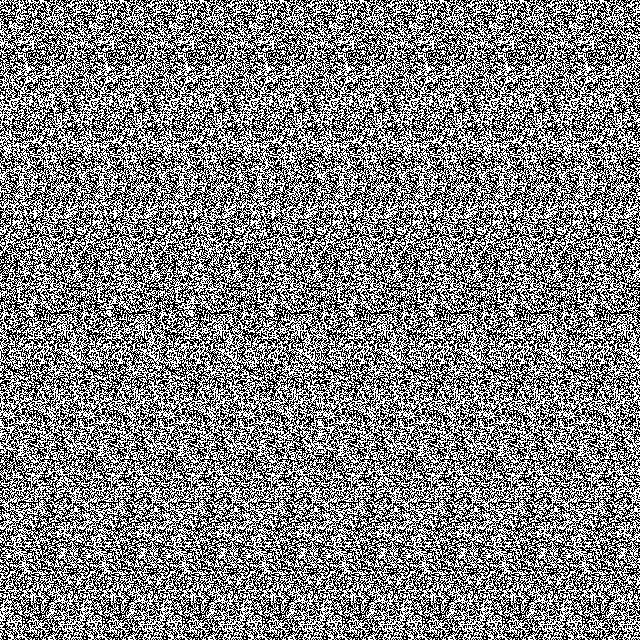
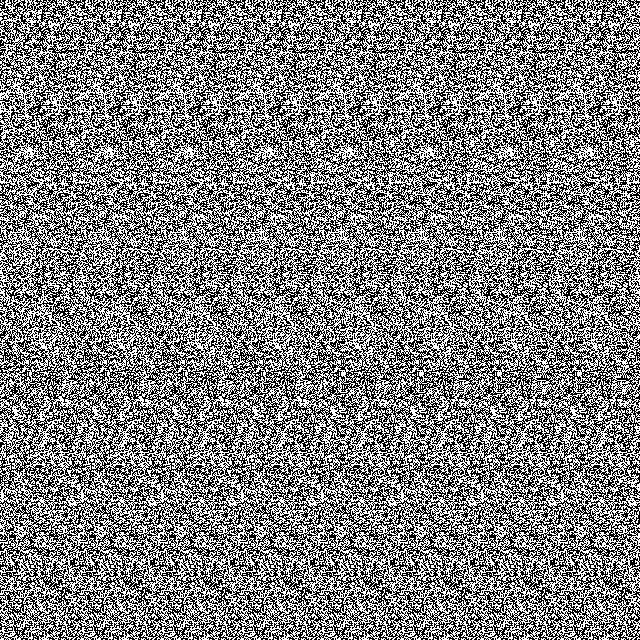
fix: it works, i needed to correct the loop of pixel shift after a first shift

diff --git a/src/main.rs b/src/main.rs
@@ -21,16 +21,40 @@ fn main() {
 	for stripe in 1..8 {
 		for x in 0..80 {
 			for y in 0..640 {
-				let mut pixel = finalimg.get_pixel(x, y);
-				if y > 80 && y < 560 && (x+(80*(stripe-1)) < 480) && (stripe == 1 || stripe == 2 || stripe == 3)
+				let pixel = finalimg.get_pixel(x, y);
+				// if y > 80 && y < 560 && (x+(80*(stripe-1)) < 480) && (stripe == 1 || stripe == 2 || stripe == 3)
+				// {
+				// 	let inputpixel = input.get_pixel(x+(80*(stripe-1)), y-80);
+				// 	if inputpixel == image::Rgba([0, 0, 0, 255]) {
+				// 		pixel = finalimg.get_pixel(x+2+(80*(stripe-1)), y);
+				// 		// pixel = &image::Rgb([255, 255, 255]);
+				// 	}
+				// }
+				finalimg.put_pixel(x+(80*stripe), y, *pixel);
+			}
+		}
+	}
+
+	image::save_buffer("image_pre-shift.png", &finalimg, 640, 640, image::ExtendedColorType::Rgb8).unwrap();
+	for stripe in 1..8 {
+		for x in 0..80 {
+			for y in 0..640 {
+				// let mut pixel = finalimg.get_pixel(x, y);
+				if y > 80 && y < 560 && (x+(80*(stripe-1)) < 480) 
 				{
 					let inputpixel = input.get_pixel(x+(80*(stripe-1)), y-80);
 					if inputpixel == image::Rgba([0, 0, 0, 255]) {
-						pixel = finalimg.get_pixel(x+2+(80*(stripe-1)), y);
+						let &pixel = finalimg.get_pixel(x+2+(80*(stripe-1)), y);
+						let &pixel2 = finalimg.get_pixel(x+(80*(stripe-1)), y);
+						for i in stripe..8 {
+							finalimg.put_pixel(x+(80*i), y, pixel);
+						}
+						// finalimg.put_pixel(x+(80*(stripe+1)), y, pixel);
+						// finalimg.put_pixel(x+(80*(stripe+2)), y, pixel);
+						finalimg.put_pixel(x+(80*stripe), y, pixel);
 						// pixel = &image::Rgb([255, 255, 255]);
 					}
 				}
-				finalimg.put_pixel(x+(80*stripe), y, *pixel);
 			}
 		}
 	}
@@ -49,5 +73,5 @@ fn main() {
 			} */
 	// imgbuf.save("first_test.png").unwrap();
 	// image::save_buffer("image.png", &imgbuf1, 80, 200, image::ExtendedColorType::Rgb8).unwrap();
-	image::save_buffer("image2.png", &finalimg, 640, 640, image::ExtendedColorType::Rgb8).unwrap()
+	image::save_buffer("image2.png", &finalimg, 640, 640, image::ExtendedColorType::Rgb8).unwrap();
 }
